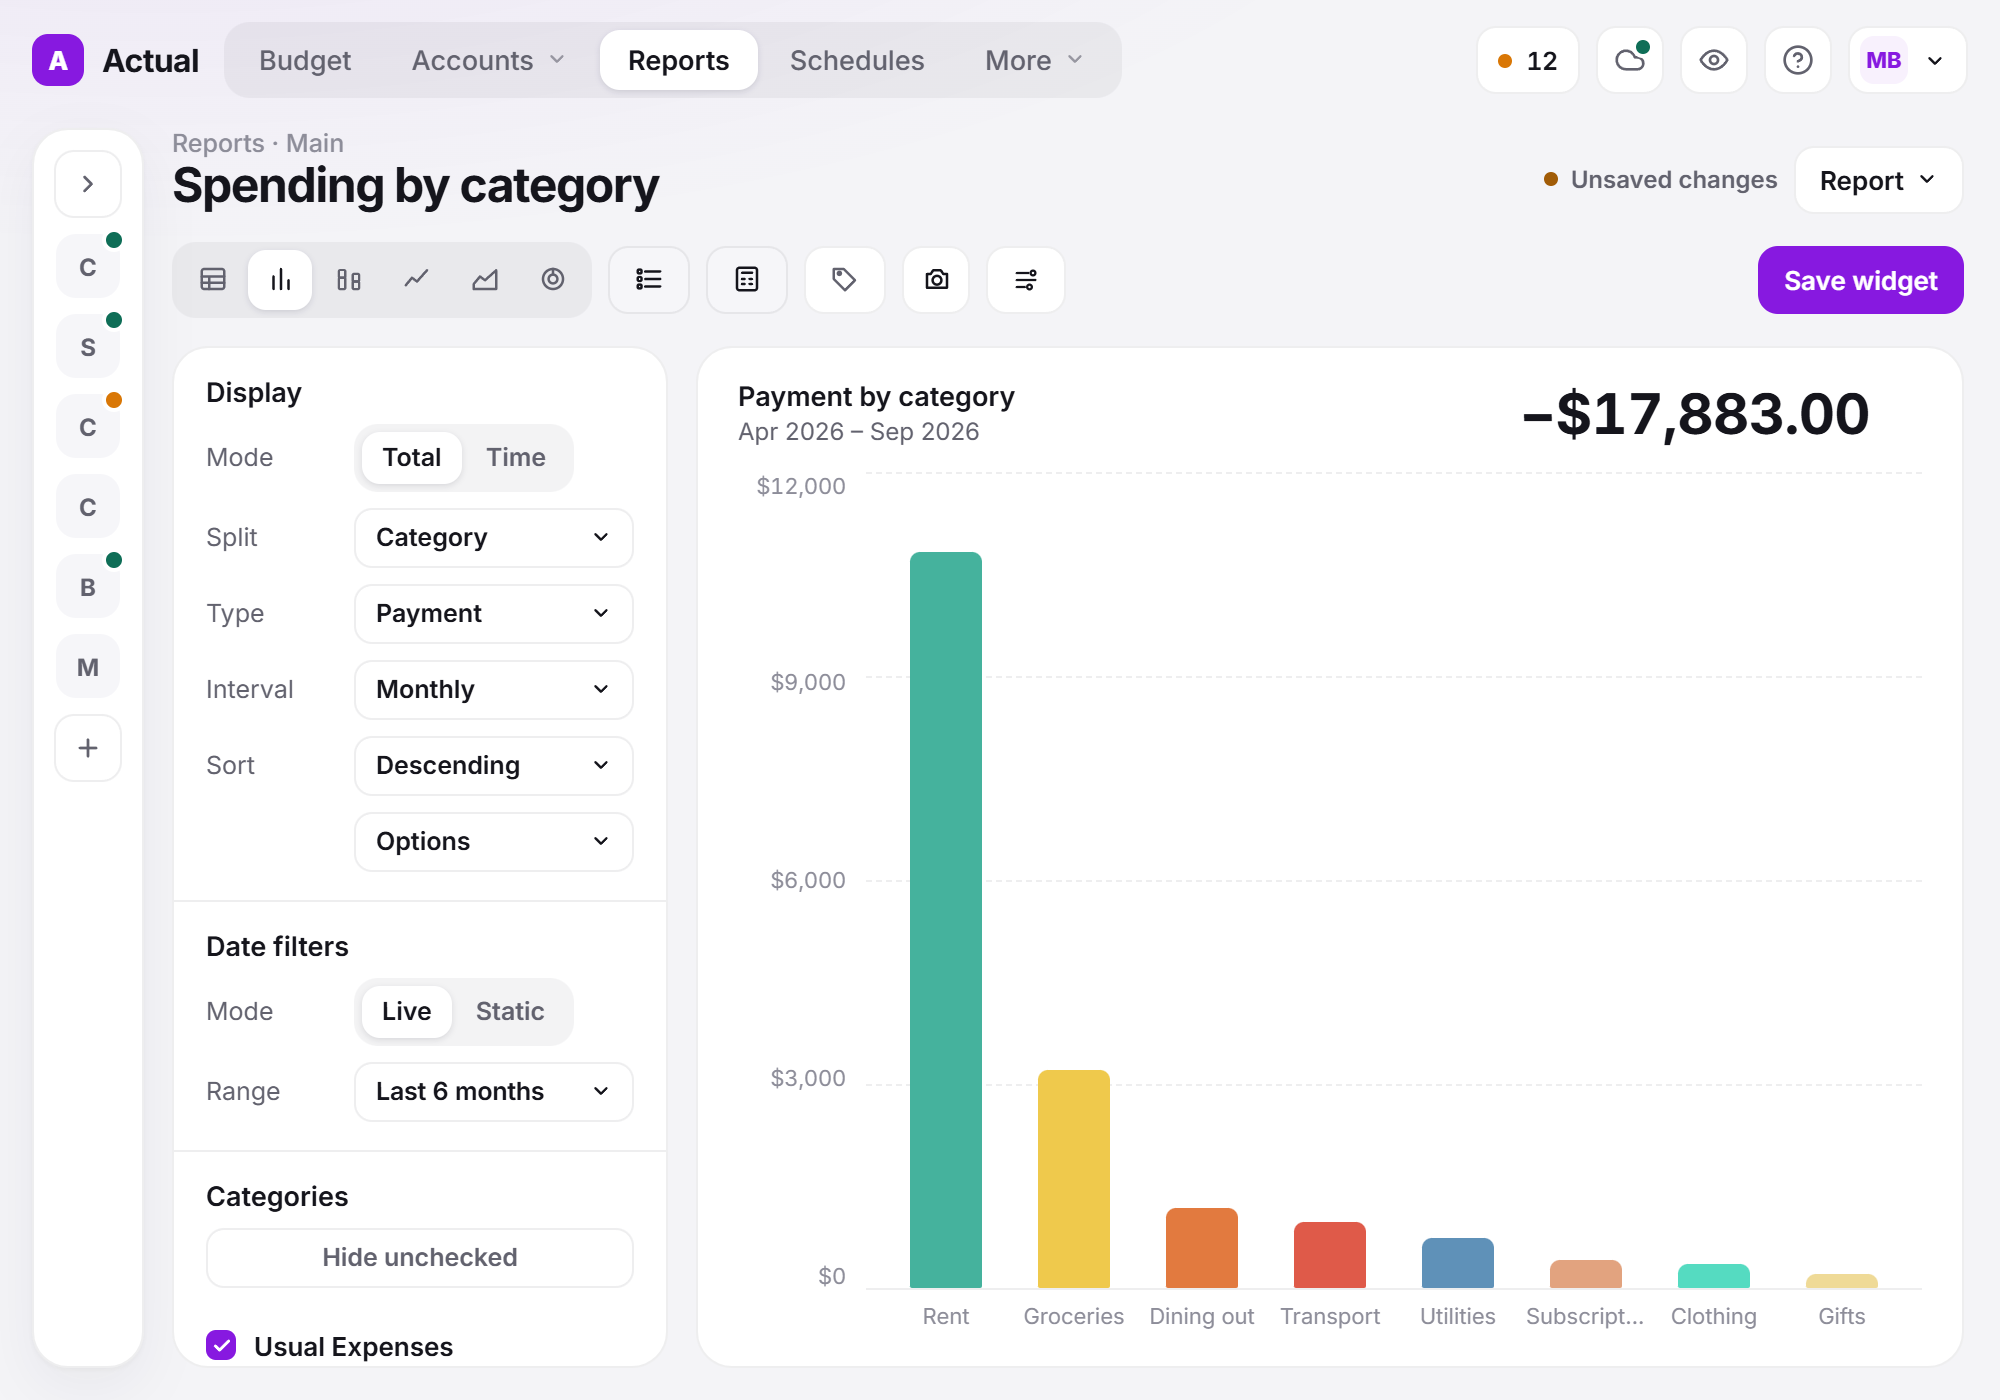
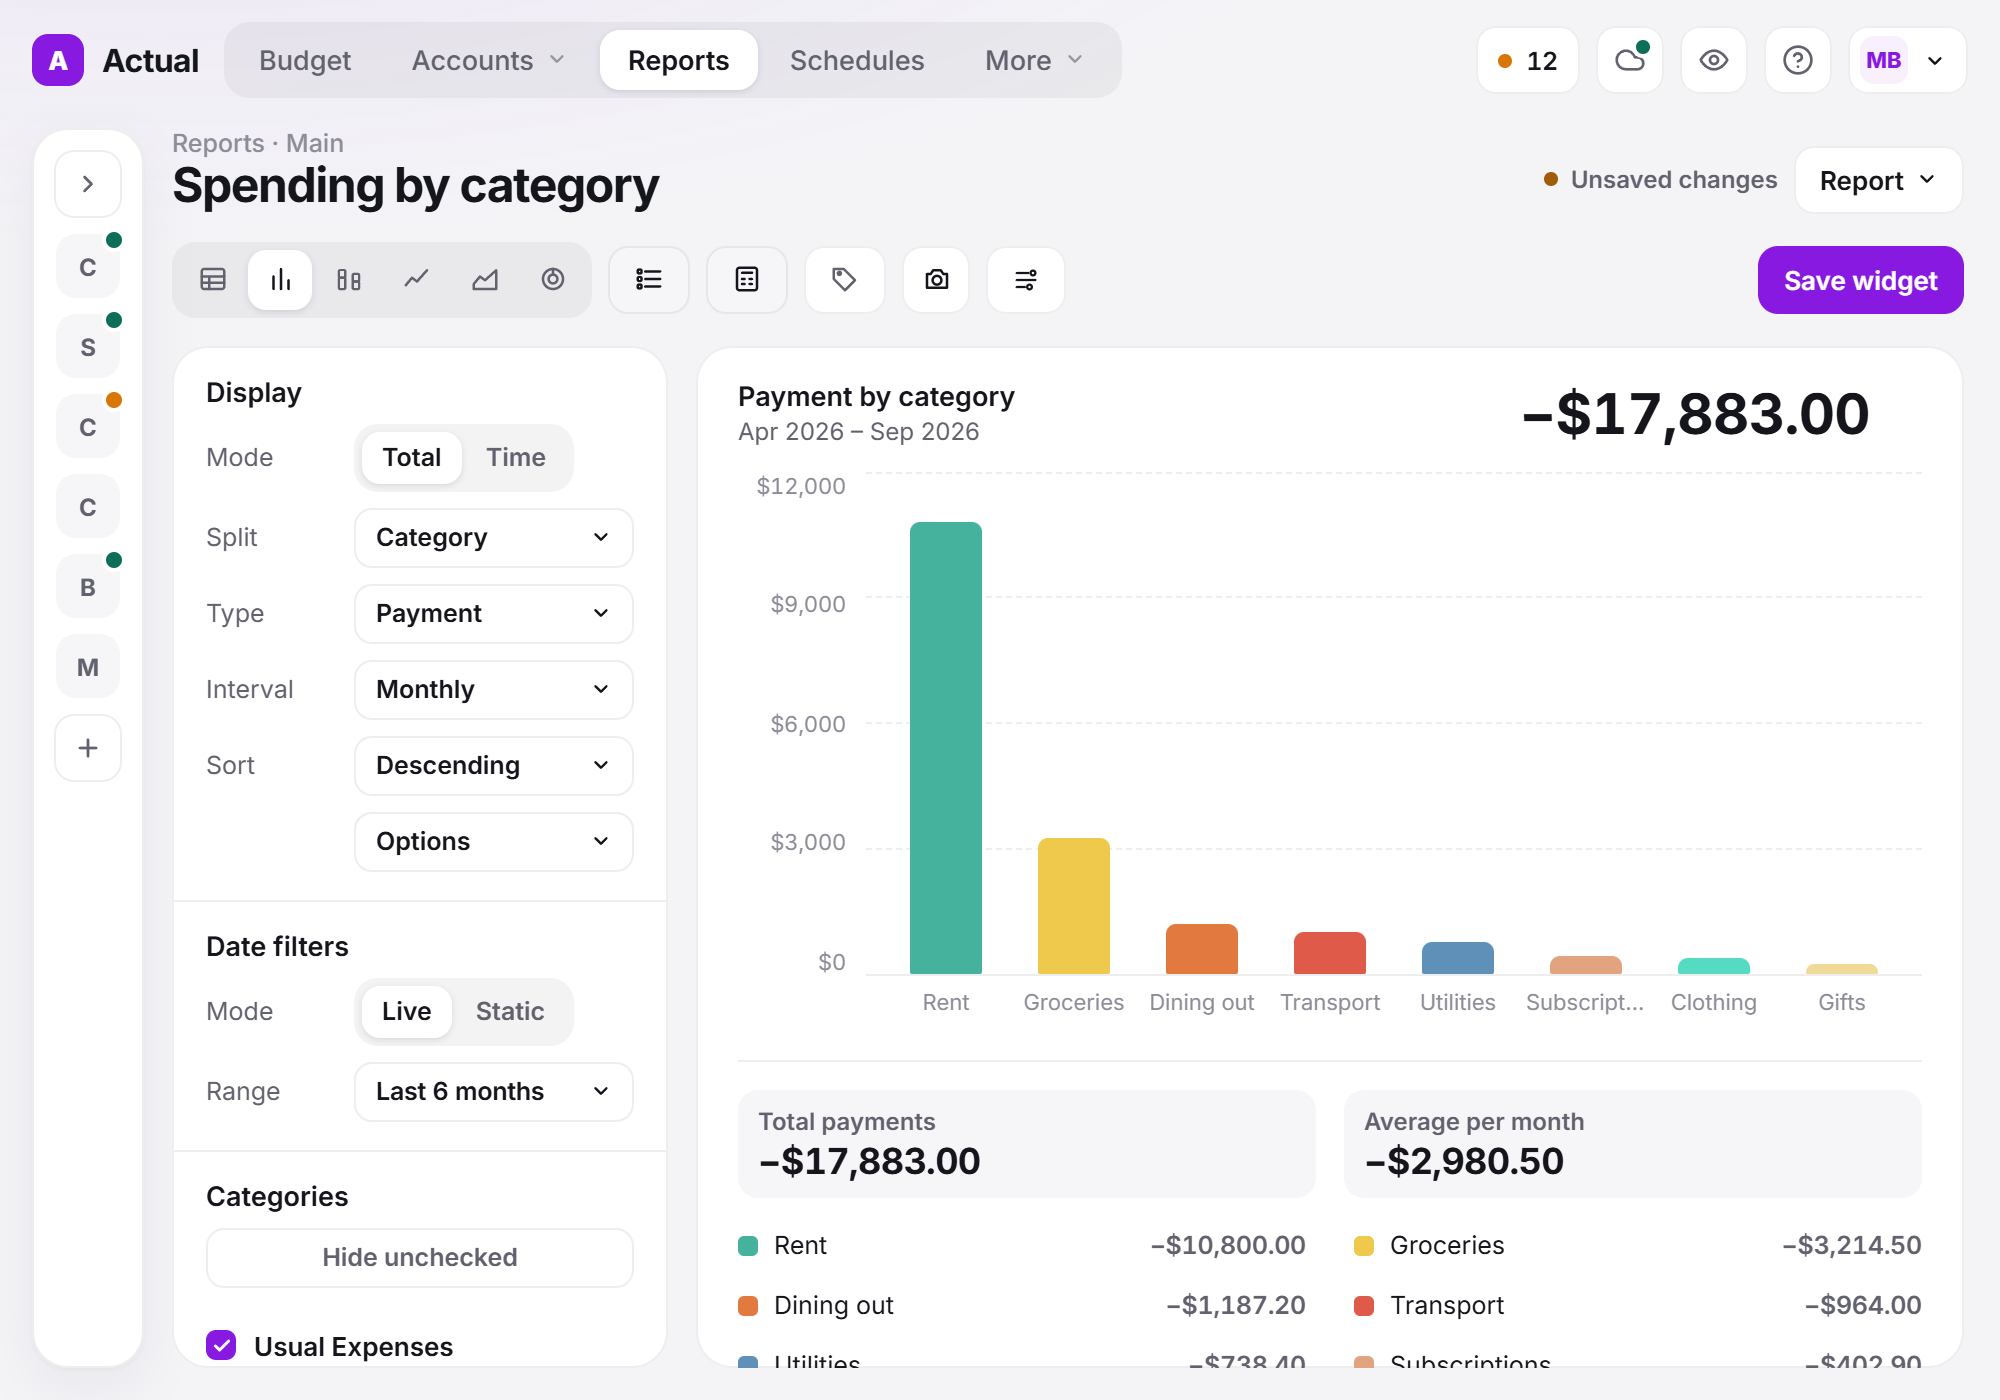
[AI] Record APP-03c drawing approval and move Monte Carlo to APP-03d

diff --git a/docs/redesign/prototype/index.html b/docs/redesign/prototype/index.html
@@ -3393,9 +3393,24 @@
         }
         .cr-chart {
           grid-template-columns: minmax(0, 1fr);
+          grid-template-rows: minmax(320px, 1fr) auto;
         }
         .cr-side {
-          display: none;
+          border-left: 0;
+          padding-left: 0;
+          border-top: 1px solid var(--cardBorder);
+          padding-top: 14px;
+          display: grid;
+          grid-template-columns: repeat(2, minmax(0, 1fr));
+          align-items: start;
+          gap: 10px 14px;
+        }
+        .cr-side .lg {
+          grid-column: 1 / -1;
+          display: grid;
+          grid-template-columns: repeat(auto-fill, minmax(190px, 1fr));
+          column-gap: 24px;
+          overflow: visible;
         }
         .cal-tiles {
           grid-template-columns: none;

diff --git a/docs/redesign/prototype/README.md b/docs/redesign/prototype/README.md
@@ -214,7 +214,13 @@ installed).
 
 ## APP-03c: custom report, Calendar and Formula proposal (October 1, 2026)
 
-**Status: drawn October 1, 2026, awaiting owner approval.** Choose **Page →
+**Status: approved October 1, 2026**, with the owner's answers: yes to the
+"Unsaved changes" label and the "Report ▾" menu button (question 1); the
+summary and legend placement below 1280px was left to the implementer
+(question 2): they move **under the chart** inside the same card (stat tiles
+in a row, then the legend in columns) rather than hiding, because the legend
+is the only key to the colours in the donut, stacked, line and area views,
+and a side column at 1000px would squeeze the chart to about 360px. Choose **Page →
 Reports**, then **View** Custom, Calendar or Formula. URL parameters:
 `rview=custom|calendar|formula`; for the custom report also
 `rgraph=table|bar|stacked|line|area|donut` and `rlegend`, `rsummary`,
@@ -236,7 +242,7 @@ What the drawing proposes (each item is presentation only):
 | Custom report header      | "Custom Report: ‹name›" in purple, 25px; saved-report menu at the right of the icon row | The APP-03b pattern: "Reports · ‹dashboard›" over the report name at Display. The saved-report menu moves to the header as a Control button ("Report ▾"), with the unsaved state as a dot and "Unsaved changes" (the existing modified status)                                                                                     |
 | Custom report toolbar     | 11 bare icon buttons with dividers                                                      | One segmented icon control for the six chart types (`aria-pressed`, same icons and order); Legend, Summary and Labels as toggle Control buttons with their names; Copy to clipboard and Filter as Control buttons; Save widget primary at the right. Below 1280px the toggles show icons only, named by `aria-label`               |
 | Custom report settings    | Flush sidebar, 13px labels, upstream selects and toggle                                 | A Surface card: **Display** (Mode as a segmented control; Split, Type, Interval, Sort and Options as full-width Control buttons), **Date filters** (Live/Static segmented, Range), **Categories** (select all/none tools, Hide unchecked, the checklist with each category's accent dot). The checklist scrolls inside the card    |
-| Custom report chart       | Chart on the table background; "Payment: −7,768.41" right-aligned above it              | The chart in a Surface card: title and date range left, total at Display right. Summary and legend share a right column inside the card (stat tiles, then legend rows with amounts); hidden below 1280px, as the sidebar legend is today at narrow widths. The data table view sits in the same card                               |
+| Custom report chart       | Chart on the table background; "Payment: −7,768.41" right-aligned above it              | The chart in a Surface card: title and date range left, total at Display right. Summary and legend share a right column inside the card (stat tiles, then legend rows with amounts); below 1280px they move under the chart in the same card (owner decision, question 2). The data table view sits in the same card               |
 | Calendar transaction list | Upstream table on the page background                                                   | The APP-02 register (`isRegister`) in its own card: Eyebrow headers, payee initials in the category accent, accent dots before categories, reconciled locks. Read-only as today: no selection column, no balance, no cleared column                                                                                                |
 | Calendar month tiles      | Surface tiles (APP-03b), month name and totals on one line                              | Month name on its own line with the totals under it, so long names ("September 2026") never wrap into the grid; the totals card uses stat tiles. Below 1280px the tiles scroll sideways, as they do today                                                                                                                          |
 | Formula body              | Labels and fields on the page background; result in a 6px-corner box                    | Cards: **Result** (the existing result on a Card Inset well), **Formula** (the editor with line numbers), **Appearance** (Show title, Font size as Dynamic/Static segments, size, conditional color and its help text). **Query Definitions** is a card on the right (below the others under 1280px), each query a Card Inset tile |

diff --git a/docs/redesign/backlog.md b/docs/redesign/backlog.md
@@ -46,7 +46,7 @@ Budget header are reference material, not tasks to build.
 | SYNC-01            | blocked     | —                        | No upstream release after v26.9.0 (checked September 29, 2026). Start when v26.10.0 ships; before RELEASE-01 (D-1).        |
 | APP-01             | verified    | `875ddad48`              | Linux VRT regenerated (69) on Windows. Custom theme, keyboard, privacy and desktop passed.                                 |
 | APP-02             | verified    | `f8fcc70d8`              | Linux VRT regenerated (66) and desktop window checked on Windows. E2E test "by payee" changed (SYNC-01 conflict risk).     |
-| APP-03a – c        | in progress | `d63b275d0`, `e94d71e27` | APP-03a, 03b merged (in that order). APP-03b open: custom theme, desktop build. APP-03c next.                              |
+| APP-03a – d        | in progress | `d63b275d0`, `e94d71e27` | 03a, 03b merged (03b: custom theme, desktop open). 03c drawn and approved; building. 03d (Monte Carlo) after.              |
 | APP-04 – APP-06    | not started | —                        | File lists must be rebuilt from source before each starts (see rule below).                                                |
 | QA-01, RELEASE-01  | not started | —                        | —                                                                                                                          |
 
@@ -77,7 +77,8 @@ does not claim Claude's prototype is production-ready.
 9. ~~**APP-01**~~ Merged September 29, 2026; Linux VRT regenerated September 30.
    ~~Then **APP-02**~~ Merged September 30, 2026; Linux VRT regenerated the same day.
    ~~Then **APP-03a**~~ Merged September 30, 2026. ~~Then **APP-03b**~~ Merged
-   October 1, 2026. Then **APP-03c**
+   October 1, 2026. Then **APP-03c** (drawing approved October 1), **APP-03d**
+   (Monte Carlo)
    and **APP-04** onward, then QA-01 and RELEASE-01.
 
 The review's reasoning is in plan §19.

diff --git a/docs/redesign/design-decisions.md b/docs/redesign/design-decisions.md
@@ -566,6 +566,26 @@ keeps its settings sidebar on the page background. Mobile is
 unchanged: at narrow widths the old toggle, button variants and right-aligned
 total come back.
 
+**APP-03c (approved October 1, 2026):** drawn in the prototype (Page →
+Reports → Custom, Calendar, Formula; shots `59`–`66`, prototype README) and
+approved with these owner answers:
+
+- Scope: the custom report editor, the Calendar report's transaction list and
+  the Formula editor body. **Monte Carlo moves to its own task, APP-03d.**
+- The custom report's settings sit in a **Settings card** beside the chart
+  card; the six chart types are one **segmented icon control**; Legend,
+  Summary and Labels are toggle Control buttons with their names.
+- The saved-report menu moves to the header as a Control button labelled
+  **"Report"**, with **"Unsaved changes"** beside it for the existing modified
+  status (two new strings, approved).
+- Below 1280px the summary and legend move **under the chart** in the same
+  card (left to the implementer; chosen so the colour key never disappears).
+- The Calendar's list uses the APP-02 register look in its own card (no
+  selection, balance or cleared column, as today); month names sit on their
+  own line above the totals.
+- Formula: Result, Formula and Appearance cards, with Query Definitions as a
+  card on the right (stacked below 1280px).
+
 ## 11. Items shown but not separately decided
 
 Confirm or change these before the named task starts; until then the
